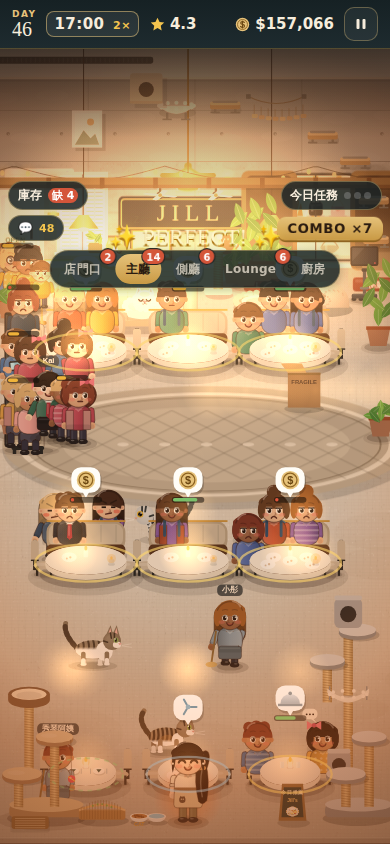
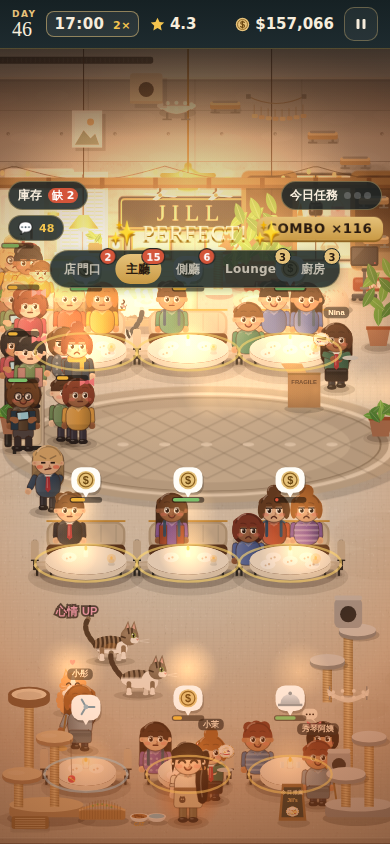
v2.3 Lounge visual correction (owner, 2026-09-30): darker and more intimate — charcoal-greige stone floor, deep warm-greige walls with an indirect line of light, a lit wine wall and cabinet, walnut only on the counter and table tops, small brass table lamps; the room is dimmed more than the halls an
Claude-Session: https://claude.ai/code/session_01K9d8KqraogWd5XN6GuNLju

diff --git a/js/game.js b/js/game.js
@@ -1608,22 +1608,26 @@ function drawBarSeat(c,t,now){const g=t.group;const seated=g&&['reading','order'
  else if(t.dirty){c.fillStyle='rgba(255,255,255,.7)';el(c,t.x+9,t.y-24,3.5,2.5)}}
 /* ---- drawing: the room ---- */
 function drawLoungeRoom(c,now,dusk,V,X0,XW,TOP,list){const lv=loungeLv();const d=clamp(dusk,0,1);
+ /* v2.3 visual correction: materially darker than the halls — charcoal-greige stone underfoot, walls in deep warm greige,
+    wood only where a hand touches it (the counter, the cabinet, the table tops), and the light in pools: the backbar's
+    glow, the wine cabinet, small brass lamps. The room reads as "later in the evening" before anything moves in it. */
  const bg=roomBg('lounge',lv+'|'+(S.theme||'')+'|'+opsLv('ac')+'|'+wineList().length,TOP,(b,X0,XW,T2)=>{const r=rng(71);
-  /* walls: warm taupe, a little darker than the halls; a wooden dado; the floor a warmer walnut */
-  let wg=b.createLinearGradient(0,-T2,0,92);wg.addColorStop(0,'#A38E78');wg.addColorStop(1,'#B9A48D');b.fillStyle=wg;b.fillRect(X0,-T2,XW,T2+92);for(let i=0;i<260;i++){b.fillStyle=`rgba(${r()<.5?'255,240,220':'60,40,30'},${.03+r()*.05})`;el(b,X0+r()*XW,-T2+r()*(T2+88),4+r()*16,2+r()*8)}
-  b.fillStyle='#5E3B22';b.fillRect(X0,84,XW,8);b.fillStyle='#8A6A42';b.fillRect(X0,84,XW,1.5);b.fillStyle='rgba(0,0,0,.12)';b.fillRect(X0,91,XW,2);
-  b.fillStyle='#8C6A46';b.fillRect(X0,92,XW,LH-92);for(let i=0;i<4200;i++){b.fillStyle=r()<.5?'rgba(255,220,180,.16)':'rgba(60,30,15,.16)';b.fillRect(X0+r()*XW,92+r()*(LH-92),1,.9)}b.strokeStyle='rgba(40,20,10,.16)';b.lineWidth=.8;for(let x=X0+16;x<LW+BGM;x+=32){b.beginPath();b.moveTo(x,92);b.lineTo(x,LH);b.stroke()}
-  let fg=b.createLinearGradient(0,92,0,LH);fg.addColorStop(0,'rgba(40,20,10,.28)');fg.addColorStop(.14,'rgba(40,20,10,0)');fg.addColorStop(1,'rgba(40,20,10,.22)');b.fillStyle=fg;b.fillRect(X0,92,XW,LH-92);
-  /* a rug under the small tables — oatmeal, quiet */{const ry=262+DY*.3;b.fillStyle='rgba(0,0,0,.12)';rr(b,44,ry-34,124,150+DY*.5,6);b.fill();b.fillStyle='#CDBFA9';rr(b,42,ry-36,124,150+DY*.5,6);b.fill();b.strokeStyle='rgba(90,60,40,.35)';b.lineWidth=1.2;rr(b,48,ry-30,112,138+DY*.5,4);b.stroke()}
+  let wg=b.createLinearGradient(0,-T2,0,92);wg.addColorStop(0,'#2E2A27');wg.addColorStop(1,'#3E3733');b.fillStyle=wg;b.fillRect(X0,-T2,XW,T2+92);for(let i=0;i<220;i++){b.fillStyle=`rgba(${r()<.5?'120,100,80':'20,16,14'},${.04+r()*.06})`;el(b,X0+r()*XW,-T2+r()*(T2+88),4+r()*18,2+r()*8)}
+  /* indirect light along the top of the dado — a warm line, the wall darker above it */b.fillStyle='#4A3F37';b.fillRect(X0,84,XW,8);let lg=b.createLinearGradient(0,70,0,84);lg.addColorStop(0,'rgba(255,190,120,0)');lg.addColorStop(1,'rgba(255,190,120,.16)');b.fillStyle=lg;b.fillRect(X0,70,XW,14);b.fillStyle='#8A6A42';b.fillRect(X0,84,XW,1.2);b.fillStyle='rgba(0,0,0,.25)';b.fillRect(X0,91,XW,2);
+  /* the floor: large dark stone tiles, a little warm in the grey, the grout barely there */b.fillStyle='#3A3633';b.fillRect(X0,92,XW,LH-92);for(let ty=92;ty<LH+40;ty+=44){for(let tx=X0-20;tx<LW+BGM;tx+=64){const v=(r()-.5)*.06;b.fillStyle=`rgba(${Math.round(78+v*200)},${Math.round(72+v*180)},${Math.round(66+v*160)},1)`;b.fillRect(tx+((ty/44|0)%2?32:0),ty,63,43)}}
+  for(let i=0;i<3600;i++){b.fillStyle=r()<.5?'rgba(255,230,200,.05)':'rgba(0,0,0,.09)';b.fillRect(X0+r()*XW,92+r()*(LH-92),1.2,1)}b.strokeStyle='rgba(20,16,14,.35)';b.lineWidth=.9;for(let ty=92;ty<LH+40;ty+=44){b.beginPath();b.moveTo(X0,ty);b.lineTo(LW+BGM,ty);b.stroke()}
+  let fg=b.createLinearGradient(0,92,0,LH);fg.addColorStop(0,'rgba(0,0,0,.35)');fg.addColorStop(.12,'rgba(0,0,0,.05)');fg.addColorStop(1,'rgba(0,0,0,.3)');b.fillStyle=fg;b.fillRect(X0,92,XW,LH-92);
+  /* a low, dark rug under the small tables — charcoal with a faint border, not a pattern */{const ry=262+DY*.3;b.fillStyle='#2C2926';rr(b,42,ry-36,124,150+DY*.5,5);b.fill();b.strokeStyle='rgba(201,154,69,.22)';b.lineWidth=1;rr(b,48,ry-30,112,138+DY*.5,3);b.stroke()}
   drawArch(b,LG.arch.x,LG.arch.y,LG.arch.w,80,'‹ 主廳');
-  /* the backbar: shelves on the back wall with the bottles the Lounge has (more with each level), a mirror behind */{const x0=LG.bar.x0+6,x1=LG.bar.x1-6;b.fillStyle='#3A2A22';b.fillRect(x0-6,-T2,x1-x0+12,T2+84);b.fillStyle='rgba(255,236,200,.08)';b.fillRect(x0,-T2+2,x1-x0,T2+80);
-   const shelves=lv>=3?3:2;for(let s=0;s<shelves;s++){const sy=70-s*24;b.fillStyle='#8A6A42';b.fillRect(x0,sy,x1-x0,3);b.fillStyle='#A98559';b.fillRect(x0,sy,x1-x0,1);const cols=['#2E6B4A','#8A2A2A','#E6C27A','#3A5A8A','#6B3A5A','#D9C27A','#2A2A2A','#C99A45'];const n=lv>=3?22:lv>=2?16:9;for(let i=0;i<n;i++){const bx=x0+8+i*((x1-x0-16)/n);b.fillStyle=cols[(i+s)%8];rr(b,bx,sy-16-(i%3)*2,4.4,16+(i%3)*2,1.5);b.fill();b.fillStyle='rgba(255,255,255,.18)';b.fillRect(bx+1,sy-14-(i%3)*2,1,8)}}
-   if(lv>=2){/* the wine cabinet: glass door, a warm light */b.fillStyle='#2A1C16';rr(b,x1-52,-T2+10,44,T2+50,4);b.fill();b.fillStyle='rgba(255,220,160,.16)';rr(b,x1-49,-T2+13,38,T2+44,3);b.fill();for(let k=0;k<4;k++){b.fillStyle='#8A6A42';b.fillRect(x1-49,-T2+24+k*12,38,1.5);for(let i=0;i<5;i++){b.fillStyle=k%2?'#8A2A2A':'#E6C27A';el(b,x1-45+i*8,-T2+22+k*12,2.6,2.6)}}b.strokeStyle='#C99A45';b.lineWidth=1;rr(b,x1-52,-T2+10,44,T2+50,4);b.stroke()}
-   /* a small neon-style sign over the bar */b.font=`italic 700 11px ${DFONT}`;b.textAlign='center';b.fillStyle='rgba(255,196,120,.35)';b.fillText("Jill's Kitchen  Lounge",(x0+x1)/2+1,-T2+30+T2*.4+1);b.fillStyle='#FFD9A8';b.fillText("Jill's Kitchen  Lounge",(x0+x1)/2,-T2+30+T2*.4);
-   /* the counter: walnut top, a brass rail, a dark front; longer with Lounge II */const bx0=LG.bar.x0,bx1=LG.bar.x1,by=LG.bar.y;b.fillStyle='rgba(0,0,0,.18)';b.fillRect(bx0,by+LG.bar.h+8,bx1-bx0,6);b.fillStyle='#3A2C26';b.fillRect(bx0,by+10,bx1-bx0,LG.bar.h);b.fillStyle='rgba(255,255,255,.05)';for(let x=bx0+6;x<bx1;x+=18)b.fillRect(x,by+12,8,LG.bar.h-4);let tg=b.createLinearGradient(0,by,0,by+12);tg.addColorStop(0,'#A67C52');tg.addColorStop(1,'#6E4A2E');b.fillStyle=tg;b.fillRect(bx0-4,by,bx1-bx0+8,12);b.fillStyle='#C9A26E';b.fillRect(bx0-4,by,bx1-bx0+8,2);b.fillStyle='#C99A45';b.fillRect(bx0-4,by+LG.bar.h+4,bx1-bx0+8,1.5);
-   for(let i=0;i<3;i++){b.fillStyle='rgba(255,255,255,.12)';el(b,bx0+40+i*70,by+4,10,2)}
-   /* pendant lamps over the bar and the tables */for(const lx of[bx0+50,bx0+130,(bx0+bx1)/2+60].concat(LG.lampX)){b.fillStyle='#2A2A2A';b.fillRect(lx-.6,-T2,1.2,T2+36);b.fillStyle='#8E6422';b.beginPath();b.moveTo(lx-9,44);b.lineTo(lx+9,44);b.lineTo(lx+5,34);b.lineTo(lx-5,34);b.closePath();b.fill();b.fillStyle='rgba(255,226,170,.95)';el(b,lx,44.5,7,2)}
-   /* plants in the corners */for(const [px,py] of[[X0+BGM+18,88],[LW-18,88]]){b.fillStyle='#8A6A42';rr(b,px-8,py-14,16,16,3);b.fill();for(let k=0;k<7;k++)leaf(b,px+(k-3)*4,py-16-(k%2)*6,12,5,-.9+k*.3,k%2?'#4E7A3A':'#6FA84E')}}
+  /* the backbar: a lit wine wall — bottles behind glass, each shelf underlit; more of it with every level */{const x0=LG.bar.x0+6,x1=LG.bar.x1-6;b.fillStyle='#1E1B19';b.fillRect(x0-6,-T2,x1-x0+12,T2+84);
+   const shelves=lv>=3?3:2;for(let s=0;s<shelves;s++){const sy=70-s*24;let gl=b.createLinearGradient(0,sy-22,0,sy+2);gl.addColorStop(0,'rgba(255,200,130,0)');gl.addColorStop(1,'rgba(255,200,130,.28)');b.fillStyle=gl;b.fillRect(x0,sy-22,x1-x0,24);b.fillStyle='#6B5238';b.fillRect(x0,sy,x1-x0,3);b.fillStyle='rgba(255,220,170,.5)';b.fillRect(x0,sy+3,x1-x0,.8);const cols=['#2E4A3A','#5A1E22','#C9A26E','#2A3A52','#4A2A3A','#B8A05E','#1E1E1E','#7A5A2A'];const n=lv>=3?22:lv>=2?16:9;for(let i=0;i<n;i++){const bx=x0+8+i*((x1-x0-16)/n);b.fillStyle=cols[(i+s)%8];rr(b,bx,sy-16-(i%3)*2,4.4,16+(i%3)*2,1.5);b.fill();b.fillStyle='rgba(255,230,190,.28)';b.fillRect(bx+1,sy-14-(i%3)*2,1,9)}}
+   if(lv>=2){/* the wine cabinet: glass, cold light inside, bottles on their sides */b.fillStyle='#141210';rr(b,x1-52,-T2+10,44,T2+50,4);b.fill();let cg=b.createLinearGradient(0,-T2+13,0,-T2+57+T2);cg.addColorStop(0,'rgba(255,214,150,.22)');cg.addColorStop(1,'rgba(255,214,150,.06)');b.fillStyle=cg;rr(b,x1-49,-T2+13,38,T2+44,3);b.fill();for(let k=0;k<4;k++){b.fillStyle='#8A6A42';b.fillRect(x1-49,-T2+24+k*12,38,1.2);for(let i=0;i<5;i++){b.fillStyle=k%2?'#5A1E22':'#C9A26E';el(b,x1-45+i*8,-T2+22+k*12,2.6,2.6)}}b.strokeStyle='rgba(201,154,69,.55)';b.lineWidth=1;rr(b,x1-52,-T2+10,44,T2+50,4);b.stroke()}
+   /* a small brass-letter sign over the bar, lit from below — no neon */b.font=`italic 700 10.5px ${DFONT}`;b.textAlign='center';b.fillStyle='rgba(0,0,0,.4)';b.fillText("Jill's Kitchen  Lounge",(x0+x1)/2+1,-T2+30+T2*.4+1);b.fillStyle='#C9A26E';b.fillText("Jill's Kitchen  Lounge",(x0+x1)/2,-T2+30+T2*.4);
+   /* the counter: a walnut top on a dark stone front; the toe-line lit */const bx0=LG.bar.x0,bx1=LG.bar.x1,by=LG.bar.y;b.fillStyle='rgba(0,0,0,.3)';b.fillRect(bx0,by+LG.bar.h+8,bx1-bx0,6);b.fillStyle='#2A2624';b.fillRect(bx0,by+10,bx1-bx0,LG.bar.h);b.fillStyle='rgba(255,255,255,.035)';for(let x=bx0+6;x<bx1;x+=18)b.fillRect(x,by+12,8,LG.bar.h-4);let tg=b.createLinearGradient(0,by,0,by+12);tg.addColorStop(0,'#8E6A48');tg.addColorStop(1,'#5A3E28');b.fillStyle=tg;b.fillRect(bx0-4,by,bx1-bx0+8,12);b.fillStyle='#B8905E';b.fillRect(bx0-4,by,bx1-bx0+8,1.6);let toe=b.createLinearGradient(0,by+LG.bar.h+4,0,by+LG.bar.h+14);toe.addColorStop(0,'rgba(255,190,120,.35)');toe.addColorStop(1,'rgba(255,190,120,0)');b.fillStyle=toe;b.fillRect(bx0-4,by+LG.bar.h+4,bx1-bx0+8,10);
+   for(let i=0;i<3;i++){b.fillStyle='rgba(255,255,255,.08)';el(b,bx0+40+i*70,by+4,10,2)}
+   /* pendant lamps over the bar, small brass table lamps by the tables — the fixtures are quiet, the pools are drawn live */for(const lx of[bx0+50,bx0+130,(bx0+bx1)/2+60]){b.fillStyle='#1A1816';b.fillRect(lx-.6,-T2,1.2,T2+36);b.fillStyle='#2A2523';b.beginPath();b.moveTo(lx-10,44);b.lineTo(lx+10,44);b.lineTo(lx+6,33);b.lineTo(lx-6,33);b.closePath();b.fill();b.fillStyle='rgba(255,214,150,.95)';el(b,lx,44.5,7,2)}
+   for(const [tx,ty] of[[62,262+DY*.3-14],[62,352+DY*.6-14],[166,352+DY*.6-14]].concat(lv>=2?[[166,262+DY*.3-14]]:[])){b.fillStyle='#8E6422';b.fillRect(tx-1,ty-14,2,12);b.fillStyle='#E8D2A8';b.beginPath();b.moveTo(tx-6,ty-14);b.lineTo(tx+6,ty-14);b.lineTo(tx+4,ty-22);b.lineTo(tx-4,ty-22);b.closePath();b.fill()}
+   /* plants in the corners — dark green, a little light on the leaves */for(const [px,py] of[[X0+BGM+18,88],[LW-18,88]]){b.fillStyle='#3A2E26';rr(b,px-8,py-14,16,16,3);b.fill();for(let k=0;k<7;k++)leaf(b,px+(k-3)*4,py-16-(k%2)*6,12,5,-.9+k*.3,k%2?'#2F4A2E':'#456B3C')}}
   drawInfra(b,'lounge')});
  blitBg(c,bg,X0,XW,TOP);
  for(const t of V.tables)if(t.room==='lounge'){if(t.kind==='bar')list.push({y:t.y,f:()=>drawBarSeat(c,t,now)})}}
@@ -2184,8 +2188,8 @@ function drawOtherRoom(c,now,dusk,V,X0,XW,TOP){const k=room;const J=V.jill;const
  if(k==='front'&&R){for(const w of STREET.ppl)list.push({y:w.y,f:()=>drawStreetWalker(c,w,now)});if(STREET.veh)list.push({y:STREET.veh.y,f:()=>drawVehicle(c,STREET.veh)});if(R.dogOut){const d=R.dogOut;list.push({y:d.y,f:()=>{drawDog(c,d.x,d.y+2,d.face<0,d.ph,d.col,!d.moving,d.nook&&!d.moving&&d.rest>1.2?(d.drink>0?'drink':'lie'):null);if(!d.moving&&!d.nook){c.strokeStyle='rgba(60,45,35,.7)';c.lineWidth=.8;c.beginPath();c.moveTo(d.x+d.face*4,d.y-10);c.quadraticCurveTo(d.x+d.face*14,d.y-14,d.x+d.face*20,d.y-24);c.stroke()}}})}}
  list.sort((a,b)=>a.y-b.y).forEach(i=>i.f());
  /* the light of the hour, as in the dining room (the street bakes it into its sky) */
- if(k!=='front'){c.save();c.globalCompositeOperation='multiply';c.fillStyle=wxTint(tintFor(dusk));c.fillRect(X0,-TOP,XW,LH+TOP);c.restore();
-  /* the room's own lamps come up with the evening */c.save();c.globalCompositeOperation='lighter';const lk=.1+clamp(dusk,0,1)*.22;const spots=k==='side'?[{x:104,y:40,r:90,k:1},{x:296,y:40,r:90,k:1},{x:200,y:150,r:130,k:.8}]:k==='lounge'?[{x:242,y:44,r:80,k:1.2,col:'255,190,110'},{x:322,y:44,r:80,k:1.2,col:'255,190,110'},{x:120,y:44,r:90,k:1},{x:290,y:44,r:70,k:.9},{x:200,y:230,r:150,k:.5,col:'255,170,90'}]:[{x:KX.range.x+KX.range.w/2,y:60,r:120,k:.9,col:'255,236,190'},{x:132,y:KY.rail+20,r:70,k:.9},{x:200,y:KY.rail+20,r:70,k:.9},{x:268,y:KY.rail+20,r:70,k:.9},{x:200,y:LH-60,r:90,k:.5}];
+ if(k!=='front'){c.save();c.globalCompositeOperation='multiply';c.fillStyle=k==='lounge'?mix(wxTint(tintFor(dusk)),'#5A4E48',.55):wxTint(tintFor(dusk));c.fillRect(X0,-TOP,XW,LH+TOP);/* v2.3: the Lounge is dimmer, whatever the hour */c.restore();
+  /* the room's own lamps come up with the evening */c.save();c.globalCompositeOperation='lighter';const lk=.1+clamp(dusk,0,1)*.22;const spots=k==='side'?[{x:104,y:40,r:90,k:1},{x:296,y:40,r:90,k:1},{x:200,y:150,r:130,k:.8}]:k==='lounge'?[{x:242,y:150,r:96,k:1.5,col:'255,190,110'},{x:322,y:150,r:96,k:1.5,col:'255,190,110'},{x:296,y:70,r:120,k:1.1,col:'255,200,130'}].concat(V.tables.filter(t=>t.room==='lounge'&&t.kind!=='bar').map(t=>({x:t.x-34,y:t.y-30,r:74,k:1.35,col:'255,196,120'}))):[{x:KX.range.x+KX.range.w/2,y:60,r:120,k:.9,col:'255,236,190'},{x:132,y:KY.rail+20,r:70,k:.9},{x:200,y:KY.rail+20,r:70,k:.9},{x:268,y:KY.rail+20,r:70,k:.9},{x:200,y:LH-60,r:90,k:.5}];
   for(const L0 of spots){let g=c.createRadialGradient(L0.x,L0.y,2,L0.x,L0.y+30,L0.r);g.addColorStop(0,`rgba(${L0.col||'255,196,120'},${lk*L0.k})`);g.addColorStop(1,'rgba(255,170,90,0)');c.fillStyle=g;c.fillRect(L0.x-L0.r,L0.y-L0.r,L0.r*2,L0.r*2.4)}
   if(k==='side'||k==='lounge')for(const t of V.tables){if(t.room!==k)continue;let g=c.createRadialGradient(t.x,t.y-15,1,t.x,t.y-15,26);g.addColorStop(0,`rgba(255,190,100,${.1+dusk*.12})`);g.addColorStop(1,'rgba(255,190,100,0)');c.fillStyle=g;c.fillRect(t.x-26,t.y-41,52,52)}c.restore()}
  if(R){const pulse=(Math.sin(now*6)+1)/2;for(const t of R.tables)if((t.room||'main')===k)drawTableOverlay(c,t,now,pulse);

diff --git a/docs/V23_BRIEF.md b/docs/V23_BRIEF.md
@@ -4961,3 +4961,11 @@ Do not attempt every storyline in one commit.
 
 完成這份 architecture report 後再開始 Phase A。
 不要重新設計已穩定的 v2.2.1 系統，不要為了 v2.3 建立不必要的大型 framework，也不要把 presentation 問題升級成 infrastructure project。
+【2026-09-30 VISUAL CORRECTION — LOUNGE】（原文與四張參考圖：docs/v23/refs/）The Lounge is materially DARKER and more intimate
+than the Main Hall: floor = dark warm-grey / charcoal / deep greige stone or microcement with subtle texture (wood only as an
+accent — the bar counter, cabinetry, table tops); lighting = localized warm pools (bar/backbar glow, small table lamps,
+restrained brass, indirect wall light, wine-fridge illumination), never the whole room evenly lit; palette = charcoal, deep warm
+greige, dark stone, muted warm brown, restrained brass, cream only as small highlights, dark green plants. NOT sports bar /
+nightclub / neon / black-and-gold / rustic pub / izakaya / another beige dining room. Mood: quiet contemporary wine lounge,
+restrained Taipei/Tokyo hospitality, warm but dim, adult but not pretentious — somewhere guests naturally stay after dinner.
+Simulation architecture unchanged; applied during v2.3 (L3 supersedes where it said "residential warmth / natural warm wood").
